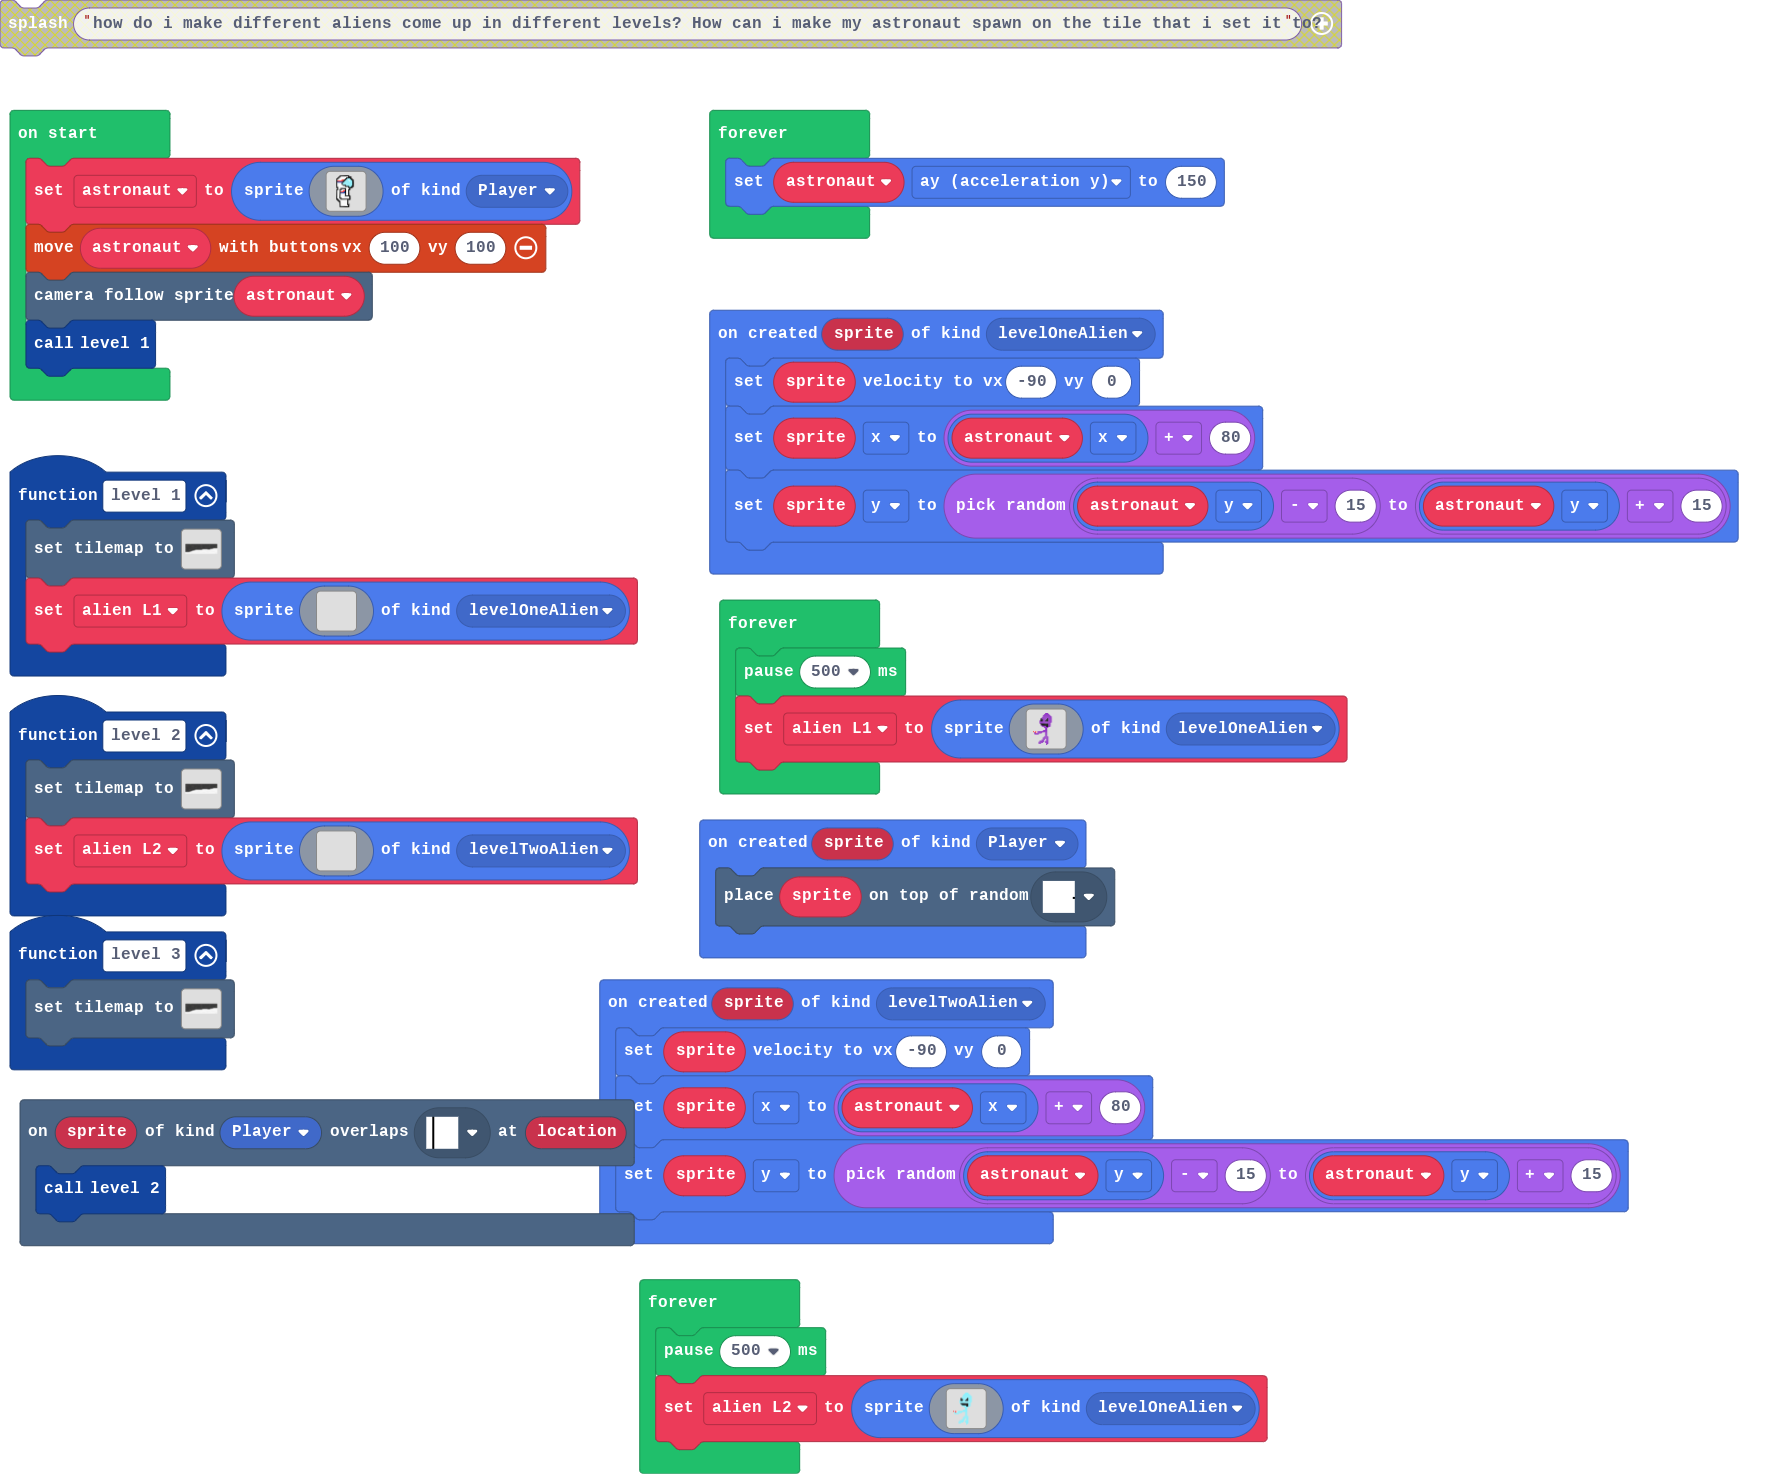
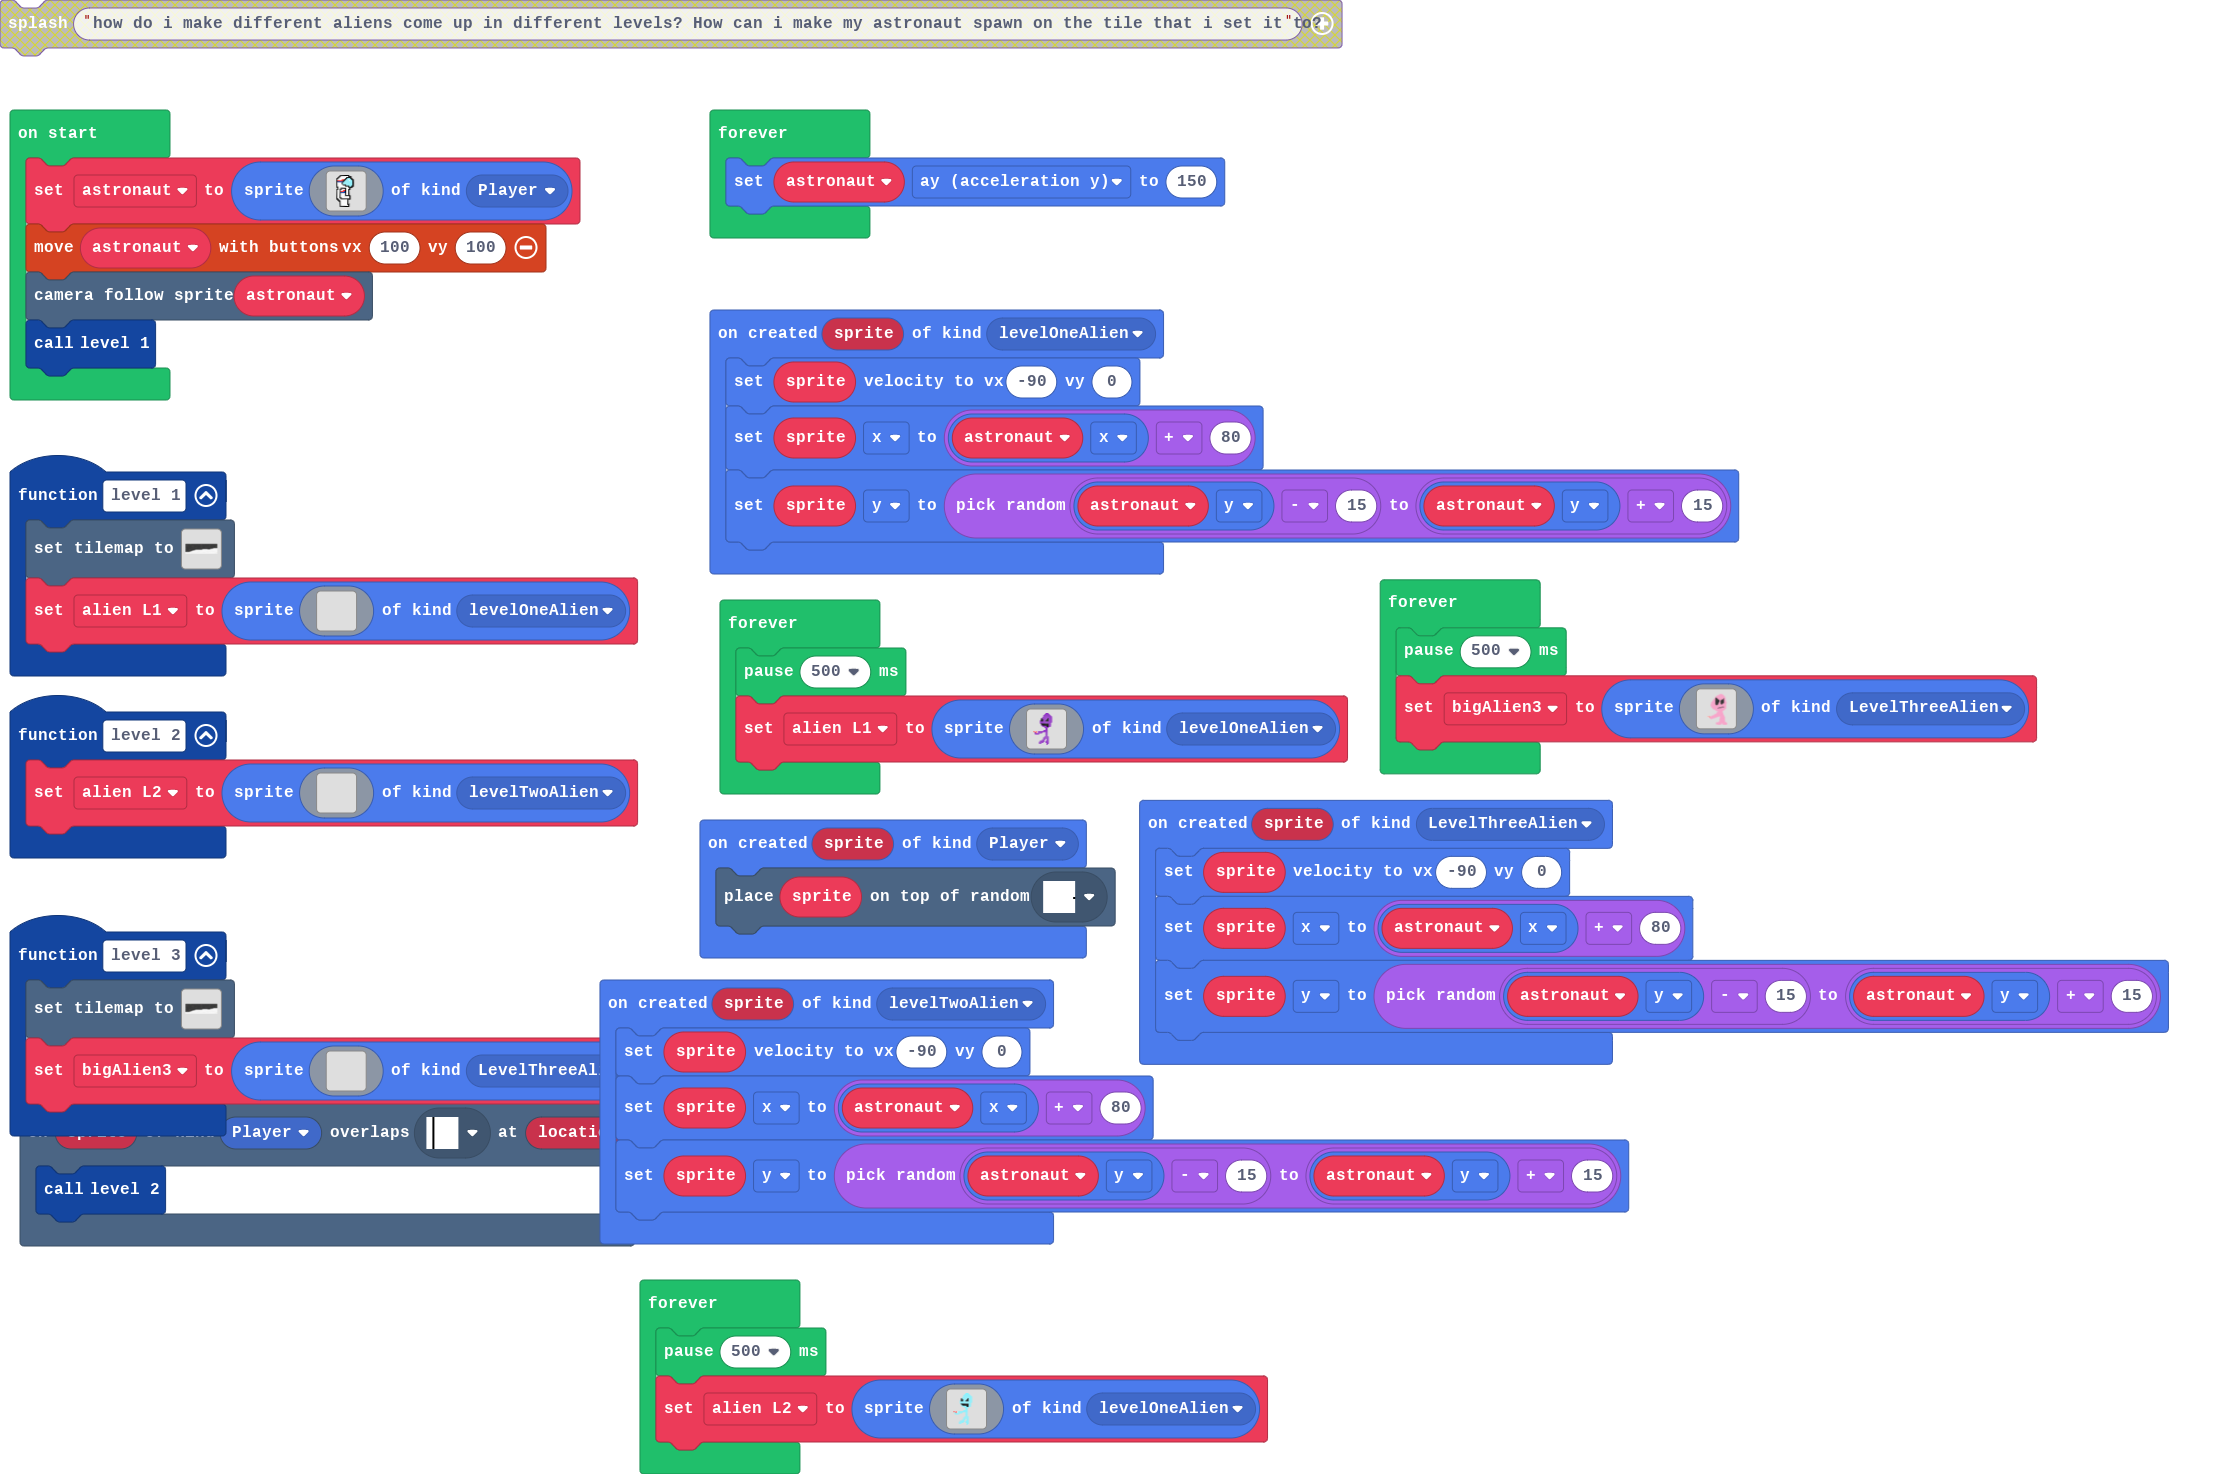
added big alien and flag

diff --git a/tilemap.g.ts b/tilemap.g.ts
@@ -30,6 +30,8 @@ namespace myTiles {
     export const tile14 = image.ofBuffer(hex``);
     //% fixedInstance jres blockIdentity=images._tile
     export const tile15 = image.ofBuffer(hex``);
+    //% fixedInstance jres blockIdentity=images._tile
+    export const tile7 = image.ofBuffer(hex``);
 
     helpers._registerFactory("tilemap", function(name: string) {
         switch(helpers.stringTrim(name)) {
@@ -72,7 +74,7 @@ namespace myTiles {
 . . . . . . . . . . . . . . . . 
 `, [myTiles.transparency16], TileScale.Sixteen);
             case "level1":
[2 lines of base64/hex data omitted]
 ....................................................................................................
 ....................................................................................................
 ....................................................................................................
@@ -103,7 +105,26 @@ namespace myTiles {
 .................2222222222222222............................................................2222222
 ....................................................................................................
 2222222222222222222222222222222222222222222222222222222222222222222222222222222222222222222222222222
-`, [myTiles.transparency16,myTiles.tile1,myTiles.tile2,myTiles.tile3,myTiles.tile9,myTiles.tile10,myTiles.tile11,myTiles.tile13,myTiles.tile14,myTiles.tile15], TileScale.Sixteen);
+`, [myTiles.transparency16,myTiles.tile1,myTiles.tile2,myTiles.tile3,myTiles.tile9,myTiles.tile10,myTiles.tile11,myTiles.tile13,myTiles.tile14,myTiles.tile15,myTiles.tile7], TileScale.Sixteen);
+            case "level4":
+            case "level4":return tiles.createTilemap(hex`1000100000000000000000000000000000000000000000000000000000000000000000000000000000000000000000000000000000000000000000000000000000000000000000000000000000000000000000000000000000000000000000000000000000000000000000000000000000000000000000000000000000000000000000000000000000000000000000000000000000000000000000000000000000000000000000000000000000000000000000000000000000000000000000000000000000000000000000000000000000000000000000000000000000000000000000000000000000000000000000000000000000000000000000000000000000000000`, img`
+. . . . . . . . . . . . . . . . 
+. . . . . . . . . . . . . . . . 
+. . . . . . . . . . . . . . . . 
+. . . . . . . . . . . . . . . . 
+. . . . . . . . . . . . . . . . 
+. . . . . . . . . . . . . . . . 
+. . . . . . . . . . . . . . . . 
+. . . . . . . . . . . . . . . . 
+. . . . . . . . . . . . . . . . 
+. . . . . . . . . . . . . . . . 
+. . . . . . . . . . . . . . . . 
+. . . . . . . . . . . . . . . . 
+. . . . . . . . . . . . . . . . 
+. . . . . . . . . . . . . . . . 
+. . . . . . . . . . . . . . . . 
+. . . . . . . . . . . . . . . . 
+`, [myTiles.transparency16], TileScale.Sixteen);
         }
         return null;
     })
@@ -139,6 +160,8 @@ namespace myTiles {
             case "tile14":return tile14;
             case "myTile13":
             case "tile15":return tile15;
+            case "myTile5":
+            case "tile7":return tile7;
         }
         return null;
     })

diff --git a/main.ts b/main.ts
@@ -1,15 +1,33 @@
 namespace SpriteKind {
     export const levelOneAlien = SpriteKind.create()
     export const levelTwoAlien = SpriteKind.create()
+    export const LevelThreeAlien = SpriteKind.create()
 }
 function level_3 () {
     tiles.setTilemap(tilemap`level1`)
+    bigAlien3 = sprites.create(img`
+        . . . . . . . . . . . . . . . . 
+        . . . . . . . . . . . . . . . . 
+        . . . . . . . . . . . . . . . . 
+        . . . . . . . . . . . . . . . . 
+        . . . . . . . . . . . . . . . . 
+        . . . . . . . . . . . . . . . . 
+        . . . . . . . . . . . . . . . . 
+        . . . . . . . . . . . . . . . . 
+        . . . . . . . . . . . . . . . . 
+        . . . . . . . . . . . . . . . . 
+        . . . . . . . . . . . . . . . . 
+        . . . . . . . . . . . . . . . . 
+        . . . . . . . . . . . . . . . . 
+        . . . . . . . . . . . . . . . . 
+        . . . . . . . . . . . . . . . . 
+        . . . . . . . . . . . . . . . . 
+        `, SpriteKind.LevelThreeAlien)
 }
 scene.onOverlapTile(SpriteKind.Player, assets.tile`myTile13`, function (sprite, location) {
     level_2()
 })
 function level_2 () {
-    tiles.setTilemap(tilemap`level1`)
     alien_L2 = sprites.create(img`
         . . . . . . . . . . . . . . . . 
         . . . . . . . . . . . . . . . . 
@@ -55,6 +73,11 @@ sprites.onCreated(SpriteKind.levelOneAlien, function (sprite) {
     sprite.x = astronaut.x + 80
     sprite.y = randint(astronaut.y - 15, astronaut.y + 15)
 })
+sprites.onCreated(SpriteKind.LevelThreeAlien, function (sprite) {
+    sprite.setVelocity(-90, 0)
+    sprite.x = astronaut.x + 80
+    sprite.y = randint(astronaut.y - 15, astronaut.y + 15)
+})
 sprites.onCreated(SpriteKind.levelTwoAlien, function (sprite) {
     sprite.setVelocity(-90, 0)
     sprite.x = astronaut.x + 80
@@ -65,6 +88,7 @@ sprites.onCreated(SpriteKind.Player, function (sprite) {
 })
 let alien_L1: Sprite = null
 let alien_L2: Sprite = null
+let bigAlien3: Sprite = null
 let astronaut: Sprite = null
 astronaut = sprites.create(img`
     .........fffffffff............
@@ -138,6 +162,66 @@ forever(function () {
         ........aa.....aa.............
         ...............a..............
         `, SpriteKind.levelOneAlien)
+})
+forever(function () {
+    pause(500)
+    bigAlien3 = sprites.create(img`
+        .......................................................
+        .......................................................
+        ..................................333..................
+        ................................3333333................
+        ..............................3333333333...............
+        ............................3333333333333..............
+        ...........................333333333333333.............
+        ..........................3333333333333333.............
+        .........................33f333333333333333............
+        .........................3fff33333333333f33............
+        ........................33ffff3333333333f33............
+        .......................333fffff3333333fff33............
+        ......................3333fffffff333fffff33............
+        .....................33333fffffff33ffffff333...........
+        .....................33333fffffff33ffffff333...........
+        ....................333333fffffff33ffffff333...........
+        ...................3333333ffffff333ffffff3333..........
+        ...................3333333ffffff333ffffff3333..........
+        ...................3333333fffff3333ffff33333...........
+        ..................33333333fffff33333ff333333...........
+        ..................333333333fff33333333333333...........
+        ..................33333333333333333333333333...........
+        ..................33333333333333333333333333...........
+        ...................3333333333333333333333333...........
+        ...................333333333333333333ffff333...........
+        ....................333333333333fffff3333333...........
+        .....................333333333ff333333333333...........
+        ......................333333333333333333333............
+        ........................333333333333333333.............
+        ..........................333333333333333..............
+        ...........................333333333333................
+        ...............................3333333.................
+        ..............................33333333.................
+        .............................333333333.................
+        ............................33333333333................
+        ............................33333333333................
+        ..........................3333333333333................
+        ........................3333333333333333...............
+        .......................33333333333333333...............
+        ....................333333333333333333333..............
+        ...........121212133333333333333..3333333..............
+        .............1212133333333333.....33333333.............
+        ...............12333333333........33333333.............
+        .................333333...........33333333.............
+        ..................33.............333333333.............
+        .................................333333333.............
+        .................................333333333.............
+        .................................333333333.............
+        .................................333333333.............
+        ................................3333333333.............
+        ...............................3333333333333...........
+        ...........................333333333333333333..........
+        ...........................3333333333.33333333.........
+        ...........................333333333..33333333.........
+        ..............................33333....333333..........
+        `, SpriteKind.LevelThreeAlien)
 })
 forever(function () {
     pause(500)
